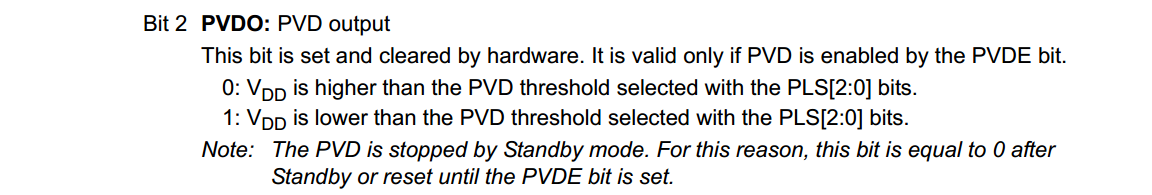
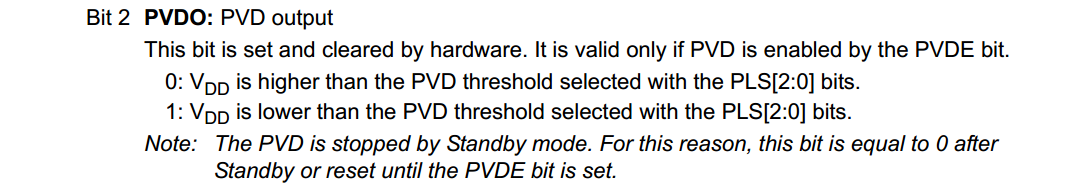
modify upper bug
modify upper bug

diff --git a/blog/blog_PVD.html b/blog/blog_PVD.html
@@ -53,10 +53,10 @@
 									<br>在实际使用MCU时，特别是电池供电的方案中，往往会遇到供电不够导致MCU或者外设工作不正常的情况。PVD在这个时候就可以派上用场了。
 									<br>
 									<br>PVD的使用按照数据手册上的说明，就是首先设置PVD阈值（PVD thresholds），当MCU的VDD引脚的电压高于阈值时，则PVD output=1，当VDD电压低于阈值时，PVD output=0，如下图所示：
-									<br><div class="12u$"><span class="image fit"><img src="pvd_image/pvd_1.png" alt="" /></span></div>
+									<br><div class="12u$"><span class="image fit"><img src="pvd_image/PVD_1.png" alt="" /></span></div>
 									<br>其中PVD output的结果可以再在存器中查看到 
-									<div><div class="12u$"><span class="image fit"><img src="pvd_image/pvd_4.png" alt="" /></span></div><!-- <img src="pvd_image/pvd_4.png" alt="" "></div> -->
-									<div><div class="12u$"><span class="image fit"><img src="pvd_image/pvd_3.png" alt="" /></span></div><!-- <img src="pvd_image/pvd_3.png" alt="" "></div> -->
+									<div><div class="12u$"><span class="image fit"><img src="pvd_image/PVD_4.png" alt="" /></span></div><!-- <img src="pvd_image/pvd_4.png" alt="" "></div> -->
+									<div><div class="12u$"><span class="image fit"><img src="pvd_image/PVD_3.png" alt="" /></span></div><!-- <img src="pvd_image/pvd_3.png" alt="" "></div> -->
 									<br>关于PVD的阈值的设定共有两种方式：
 									<br>
 										<ul>
